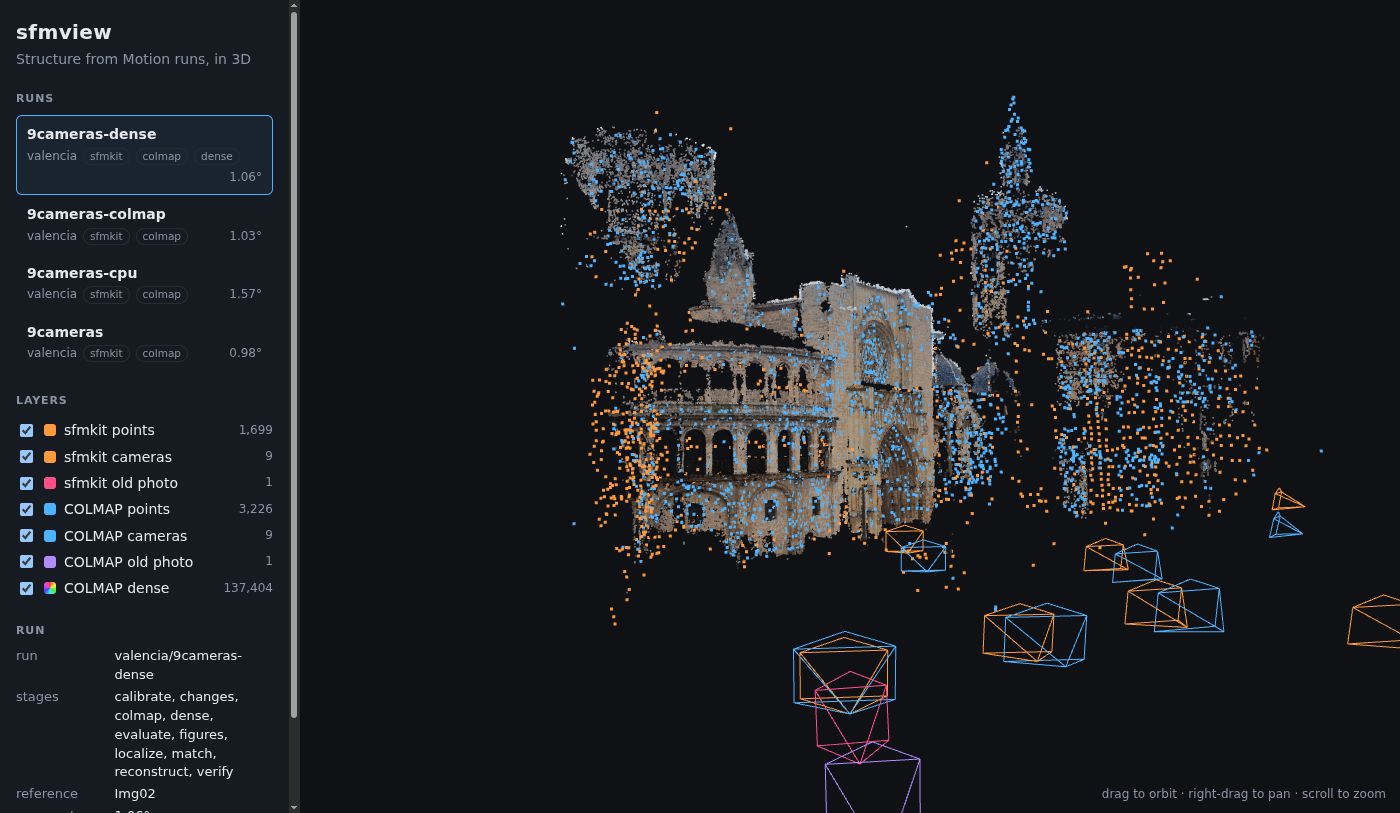
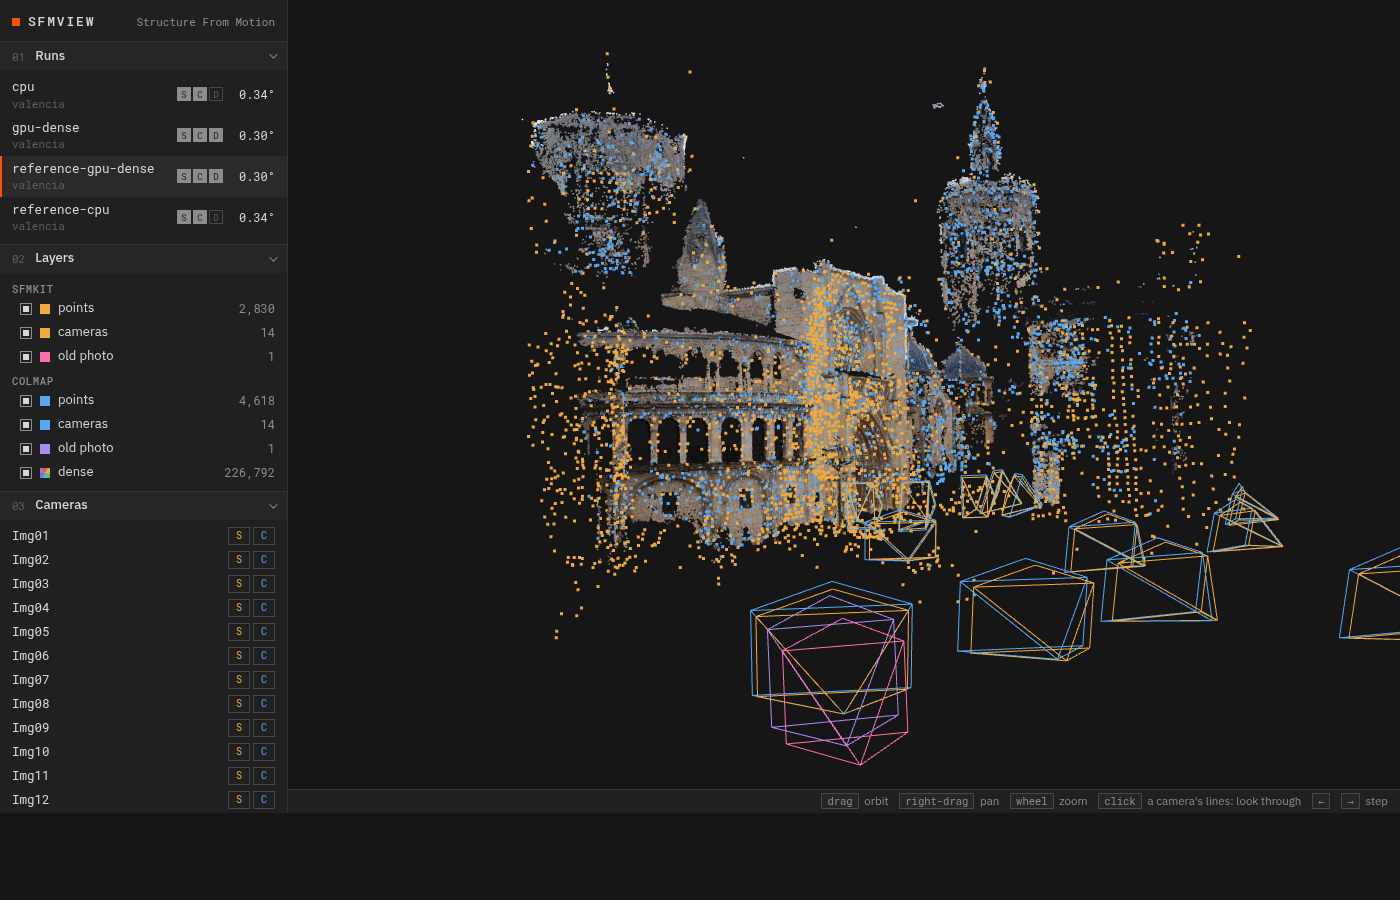
Lead the README with what it is, then show the work in the order it happens
The sentence saying what this is was on line 18, under a rhetorical question
and a photograph: a visitor had to scroll past four blocks before they could
classify the repository. It is the first line now, and the question it used to
open with has become the caption of the picture that answers it.

The rest follows the order the project actually runs in. Three animations
already existed and none of them was in the README: the map being built camera
by camera, and the old photograph flying onto today's and marking what changed.
Both are in, as WebP, which is what GitHub animates -- an MP4 by relative path
does not play here. So the page now goes: what it is, look, it builds, it is
this far off, and this is what it was for.

That puts the engineering above the install instructions rather than nine
sections below them, and gives the three services in compose.yaml a paragraph
and a diagram of their own instead of two lines of shell.

The viewer screenshot was two eras out of date -- runs named `9cameras`, 1 699
points, 9 cameras -- against a table in the same README that says 14 and 2 830.
Retaken on the frozen GPU run, so every count in the picture is a count the
text quotes. The change animation was remade at 860 px and quality 38, 2.9 MB
instead of 5, with the annotations still legible; the whole page's images come
to 4.2 MB.

Numbers corrected along the way: the dense cloud is 226 792 points in the
[…]

diff --git a/README.md b/README.md
@@ -4,56 +4,113 @@
 [![Documentation](https://github.com/dpadillaor/sfmkit/actions/workflows/docs.yml/badge.svg)](https://dpadillaor.github.io/sfmkit/)
 [![Licence: MIT](https://img.shields.io/badge/licence-MIT-informational)](LICENSE)
 
-**Where was this photograph taken from, and what has changed since?**
+sfmkit is a Structure-from-Motion library written from the geometry up: two-view
+geometry, feature tracks, incremental reconstruction, and a bundle adjustment of
+its own. Every result it reports is scored against
+[COLMAP](https://colmap.github.io/).
+
+It was built to answer one question. Give it a handful of photographs of a place
+and one undated photograph of the same place, and it works out where the old one
+was taken from — then shows you, on today's photograph, what is no longer there.
 
 ![The same square, a century apart](website/docs/figures/then_and_now.jpg)
 
-*Plaza de la Virgen, Valencia. Left: an undated photograph, camera unknown.
-Right: the same square today, from a phone.*
-
-Give sfmkit a handful of photographs of a place and one old photograph of the
-same place, and it works out where the old one was taken from — and then shows
-you, on today's photograph, what is no longer there.
-
-It is a Structure-from-Motion library written from the geometry up: two-view
-geometry, feature tracks, incremental reconstruction and a bundle adjustment of
-its own. It checks its answer against [COLMAP](https://colmap.github.io/) and
-says how far apart the two are.
+*Plaza de la Virgen, Valencia. Where was the one on the left taken from, and what
+has changed since?*
 
 **[Documentation](https://dpadillaor.github.io/sfmkit/)** ·
 [Tutorial](https://dpadillaor.github.io/sfmkit/tutorial/) ·
 [Results](https://dpadillaor.github.io/sfmkit/project/results/) ·
 [The viewer](https://dpadillaor.github.io/sfmkit/viewer/)
 
+## The map, built
+
+![The reconstruction as it is built](website/docs/figures/growth.webp)
+
+*Fourteen photographs of the square becoming a model of it. Two cameras to start,
+then one at a time — each placed against the points already there, each followed
+by a bundle adjustment — and a global refinement over everything at the end. The
+table keeps the count, and the reprojection error after every step.*
+
+The bundle adjustment is ours: Levenberg–Marquardt, an analytic Jacobian, the
+points eliminated with the Schur complement. It replaced
+`scipy.optimize.least_squares`, which on these problems never converged — it
+exhausted its evaluation budget on every bundle. Ours is **58× faster and reaches
+a lower cost**, which is what turned a run from minutes into seconds and made
+searching the thresholds affordable at all.
+[The numbers](https://dpadillaor.github.io/sfmkit/project/results/#the-bundle-adjustment).
+
+## How far off it is
+
+Fourteen cameras, 2 830 points, and a **mean rotation error of 0.30°** against
+COLMAP.
+
+That number is worth quoting because of what it is measured against: COLMAP run
+from scratch on the same photographs, with its own features and its own matching.
+The two programs share the photographs and nothing else. Scored instead against a
+model that had been fed matches like ours, the same reconstruction reads 0.379°.
+
+Matching runs where `sfm.device` says, and a CPU and a GPU do not find quite the
+same matches, so they do not give quite the same model: 2 850 points at 0.338° on
+a CPU, 2 830 at 0.300° on a GPU. Both configs ship with the repository.
+
 ## The old photograph
 
-This is the part the rest exists for. It was taken by another camera, of
-unknown focal length, perhaps cropped, a century before the others, so it
-cannot simply join the reconstruction: it is matched against one modern
-photograph only, kept out of the model so that a poorly constrained camera
-cannot bend it, and then **placed against the finished model** — solving for its
-whole projection matrix, focal length included, because assuming the phone's
-would put it somewhere else entirely.
+This is the part the rest exists for. It was taken by another camera, of unknown
+focal length, perhaps cropped, a century before the others, so it cannot simply
+join the reconstruction: it is matched against one modern photograph only, kept
+out of the model so that a poorly constrained camera cannot bend it, and then
+**placed against the finished model** — solving for its whole projection matrix,
+focal length included, because assuming the phone's would put it somewhere else
+entirely. RANSAC-DLT on eleven unknowns, then refined in pixels under a Huber
+loss, which took its reprojection from 14 px to 2 and stopped it landing
+somewhere different on every seed.
 
-Once it is placed, the two views can be brought together:
+Once it is placed, the two views can be brought together and their tones compared:
 
-![The old photograph set into today's](website/docs/figures/overlay.jpg)
+![The old photograph landing on today's, and what changed](website/docs/figures/old_photo.webp)
 
-*The old photograph warped onto today's through the homography between them.
-The facade lines up; what does not line up is what changed.*
-
-Comparing their tones, once matched, marks it: the lamp posts have moved, a
-building beside the cathedral is gone, the arcade now opens onto a courtyard,
-and there are people in both photographs but never in the same place.
+*The old photograph flown onto today's through the homography between them. The
+facade lines up; what does not line up is what changed — the lamp posts have
+moved, a building beside the cathedral is gone, the arcade now opens onto a
+courtyard, and there are people in both photographs but never in the same place.*
 
 And the answer can be argued with. For a long time our placement and COLMAP's
 disagreed by 11.5°, and it turned out to be COLMAP that was wrong — the whole
 argument, with the two measurements that settled it, is in
 [Results](https://dpadillaor.github.io/sfmkit/project/results/#the-115-argument).
 
+## The viewer, and the three services behind it
+
+![The viewer on Valencia, with the dense cloud](website/docs/figures/viewer.png)
+
+`sfmview` draws a run in 3D: our reconstruction in amber, COLMAP's in blue, both
+in one frame so that what you see is what was scored, the old photograph among
+them, and COLMAP's dense cloud. Click a camera to look through it.
+
+It also draws a run **as it is being built**, and that is what the three services
+in `compose.yaml` are for: the pipeline publishes each stage, and each camera it
+registers, to a Redis stream; the viewer relays that to the page over a
+WebSocket, and a timeline rewinds it.
+
+```
+cli ──▶ redis ──▶ viewer ──▶ browser
+      (stream)          (websocket)
+```
+
+Neither program imports the other. They share a
+[message format](https://dpadillaor.github.io/sfmkit/viewer/live/), written down
+in AsyncAPI and checked against a schema on both sides, and a
+[set of files](https://dpadillaor.github.io/sfmkit/viewer/), and nothing else —
+which is enforced by a test that fails if the viewer's environment can so much as
+import sfmkit. Each package builds its own image, and CI publishes them to GHCR
+and to Docker Hub on a release.
+
 ## Try it
 
-No COLMAP, no GPU, about half an hour on a laptop:
+No COLMAP, no GPU, about half an hour on a laptop. The photographs come with the
+repository, and this config scores the result against a COLMAP model saved here,
+so nothing else has to be installed:
 
 ```bash
 git clone https://github.com/dpadillaor/sfmkit && cd sfmkit
@@ -64,18 +121,8 @@ pip install --no-deps -e packages/contracts -e packages/sfmkit
 sfmkit run --config projects/valencia/configs/no-colmap.yaml
 ```
 
-The photographs come with the repository, and that config scores the result
-against a COLMAP model saved here, so nothing else has to be installed. Then
-look at what it made:
-
-```bash
-conda create -n sfmview python=3.11 -y && conda activate sfmview
-pip install --no-deps -r packages/viewer/requirements.txt
-pip install --no-deps -e packages/contracts -e packages/viewer
-sfmview --projects projects        # http://127.0.0.1:8000
-```
-
-With Docker instead, and nothing on the host:
+With Docker instead, and nothing on the host. The image carries COLMAP, so this
+one runs it from scratch and scores against a model it computed itself:
 
 ```bash
 make env                                                     # your uid, once
@@ -83,36 +130,22 @@ docker compose run --rm cli run --config projects/valencia/configs/cpu.yaml
 docker compose up -d viewer                                  # http://127.0.0.1:8000
 ```
 
-Photographs of your own take one more command, which lays out a project of
-theirs and writes it a config:
+Photographs of your own take one more command, which lays out a project of theirs
+and writes it a config:
 
 ```bash
-conda activate sfmkit                       # back to the pipeline's environment
 sfmkit new plaza --photos ~/Pictures/plaza
 sfmkit run --config projects/plaza/configs/cpu.yaml
 ```
 
-The [tutorial](https://dpadillaor.github.io/sfmkit/tutorial/) walks through
-all of it.
-
-## The viewer
-
-![The viewer on Valencia, with the dense cloud](website/docs/figures/viewer.png)
-
-`sfmview` draws a run in 3D: our reconstruction in amber, COLMAP's in blue,
-both in one frame so that what you see is what was scored, the old photograph
-among them, and COLMAP's dense cloud. Click a camera to look through it.
-
-It also draws a run **as it is being built**: sfmkit publishes each stage, and
-each camera it registers, to a Redis stream; the viewer relays that to the page
-and a timeline rewinds it. Neither program imports the other — they share a
-[message format](https://dpadillaor.github.io/sfmkit/viewer/live/) and a set of
-files, and nothing else, which is enforced by a test that fails if the viewer's
-environment can so much as import sfmkit.
+The [tutorial](https://dpadillaor.github.io/sfmkit/tutorial/) walks through all of
+it, and [Install](https://dpadillaor.github.io/sfmkit/install/conda/) through the
+viewer's environment and the images.
 
 ## The pipeline
 
-Ten stages, each a command; `sfmkit run` does them in order.
+Ten stages, each a command; `sfmkit run` does them in order, and walks past any
+the config does not ask for.
 
 ![The sfmkit pipeline](website/docs/figures/pipeline.svg)
 
@@ -122,46 +155,33 @@ Ten stages, each a command; `sfmkit run` does them in order.
 | `match` | Distinctive points in each photograph, paired between photographs | 92 pairs |
 | `verify` | Throws away pairings that do not fit the geometry of two views | 86 pairs kept |
 | `reconstruct` | Builds the 3D model: two photographs to start, then one at a time | 14 cameras, 2 830 points |
-| **`localize`** | **Places the old photograph in that model** | **to within 2 px** |
+| **`localize`** | **Places the old photograph in that model** | **2 px reprojection, 0.60° from COLMAP's** |
 | `colmap` | COLMAP's model of the same photographs, to be scored against | 14 cameras and the old one |
-| `dense` | Optional, needs an NVIDIA GPU: a dense cloud from COLMAP's model | 225 338 points |
-| `evaluate` | How far every camera is from COLMAP's | 0.30° mean error |
+| `dense` | Optional, needs an NVIDIA GPU: a dense cloud from COLMAP's model | 226 792 points |
+| `evaluate` | How far every camera is from COLMAP's | 0.30° mean rotation error |
 | **`changes`** | **Overlays the old photograph on a modern one and marks what differs** | **7.6% of the overlap** |
 | `figures` | The plots for a finished run | |
 
-Every stage writes a manifest with the commit, the versions and the whole
-config, so a figure can name the code that produced it.
-
-**What the 0.30° is measured against.** COLMAP, run from scratch on the same
-photographs, with its own features and its own matching: the two programs share
-the photographs and nothing else, which is what makes the number worth quoting.
-Scored instead against a model that had been fed matches like ours, the same
-reconstruction reads 0.379°.
-
-Matching runs where `sfm.device` says. A CPU and a GPU do not find quite the
-same matches, so they do not give quite the same model: 14 cameras and 2 850
-points at 0.338° on a CPU, 14 and 2 830 at 0.300° on a GPU. Both are in
-[the configuration](https://dpadillaor.github.io/sfmkit/guide/config/).
+Every stage writes a manifest with the commit, the versions and the whole config,
+so a figure can name the code that produced it.
 
 ## What is inside
 
-The parts worth a look, and why they are there:
+Besides the bundle adjustment and the estimated camera above:
 
-- **A bundle adjustment of our own** — Levenberg–Marquardt, an analytic
-  Jacobian, the points eliminated with the Schur complement. It replaced
-  `scipy.optimize.least_squares`, which on these problems never converged: 58×
-  faster *and* a lower cost.
-  [The numbers](https://dpadillaor.github.io/sfmkit/project/results/#the-bundle-adjustment).
-- **An estimated camera for the old photograph** — RANSAC-DLT on eleven
-  unknowns, then refined in pixels under a Huber loss, which took its
-  reprojection from 14 px to 2 and stopped it landing somewhere different on
-  every seed.
-- **Two packages that do not know each other** — `packages/sfmkit` in four
-  layers (`apps → render → data → core`) and `packages/viewer` in ports and
-  adapters, both enforced by import-linter rather than by good intentions.
+- **Three packages that do not know each other** — `packages/sfmkit` in four
+  layers (`apps → render → data → core`), `packages/viewer` in ports and
+  adapters, and `packages/contracts` underneath both, importing nothing but the
+  standard library. All enforced by import-linter rather than by good intentions.
+- **A project is one folder** — its photographs, its configs, its runs. A config
+  is found by where it sits, so nothing names the project twice and the same file
+  works on the host and inside a container.
 - **Everything pinned, installed with `--no-deps`** — one list per environment,
   the same in conda and in Docker, so what CI proves is what the instructions
-  give you.
+  give you. `pip check` guards the pins and has caught three real mismatches.
+- **A frozen run, tracked** — what the regression measures against. CI reruns the
+  pipeline on it and fails unless fourteen cameras come back within 0.02° of the
+  error recorded here.
 
 ![COLMAP's dense cloud of the square](website/docs/figures/dense.jpg)
 
@@ -176,11 +196,12 @@ The parts worth a look, and why they are there:
 | [Results](https://dpadillaor.github.io/sfmkit/project/results/) | the numbers, and the arguments behind them |
 | [Questions](https://dpadillaor.github.io/sfmkit/faq/) | COLMAP, GPUs, the weights, and why the old photograph is handled apart |
 
-Everything that is written down is on the site: there are no notes scattered
-through the repository to go looking for.
+Everything explained is on the site. The READMEs left in the repository sit
+beside what they describe — the photographs, and the scripts that draw the
+figures — and explain nothing that is not there.
 
 ## Licence
 
-MIT, in [LICENSE](LICENSE). The photographs, the feature weights it downloads
-and the tools it calls are not ours to license: [NOTICE](NOTICE) says what each
-one is.
+MIT, in [LICENSE](LICENSE). The photographs, the feature weights it downloads and
+the tools it calls are not ours to license: [NOTICE](NOTICE) says what each one
+is.

diff --git a/animation-tools/README.md b/animation-tools/README.md
@@ -32,7 +32,9 @@ site's are relative to its own pages.
 | File | What it shows | How it is made | Used in |
 |---|---|---|---|
 | `then_and_now.jpg` | The historical photo beside a modern one | `python animation-tools/then_and_now.py`, from the repo root | README |
-| `old_photo.webp`, `old_photo.mp4` | The old photograph landing on today's, what changed, and what changed where | `python animation-tools/changes_animation.py --layout side --format webp --width 1000 --quality 55` (the MP4: `--format mp4 --width 1400`) | README, the site |
+| `old_photo.webp`, `old_photo.mp4` | The old photograph landing on today's, what changed, and what changed where | `python animation-tools/changes_animation.py --layout side --format webp --width 860 --quality 38` (the MP4: `--format mp4 --width 1400`) | README, the site |
+| `growth.webp`, `growth.mp4` | The map being built, camera by camera | `python animation-tools/growth_animation.py --format webp --width 1000 --out website/docs/figures/growth` (the MP4: `--format mp4`) | README, the site |
+| `viewer.png` | The viewer on the frozen GPU run, so its counts are the ones the README quotes | `sfmview --projects projects --port 8124`, then `google-chrome --headless=new --disable-gpu --use-angle=swiftshader --window-size=1400,900 --virtual-time-budget=30000 --screenshot=viewer.png "http://localhost:8124/#valencia/reference-gpu-dense"` | README, the site |
 | `pipeline.svg` | The stages, grouped in three blocks | Written by hand; see below | README |
 | `cameras.png`, `comparison.png`, `tracks.png` | A finished run's two models, and its tracks | Copied from a run's `figures/` (`sfmkit figures`) | the site |
 | `matches.jpg`, `epipolar.jpg`, `residuals.jpg` | Diagnostics of the stages that got there | The same, resized to 1400 px wide (the PNGs were 1-2 MB each) | the site |
